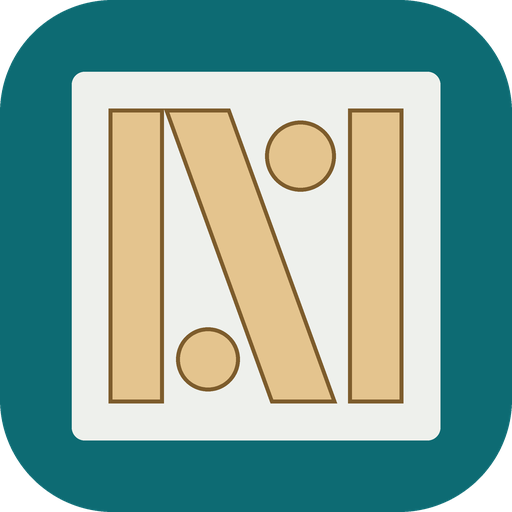
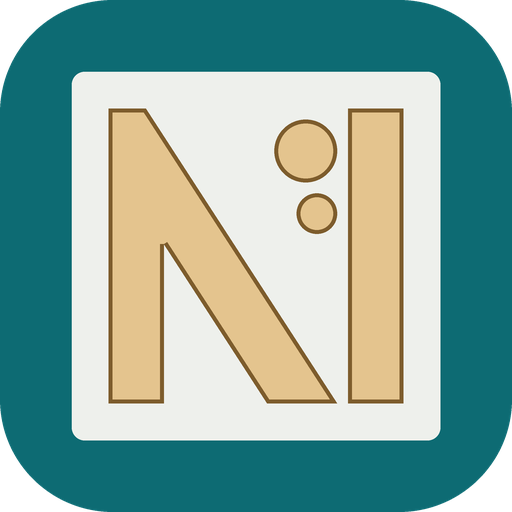
Icône : montant gauche et diagonale d'une seule forme — version 1.0.3
Claude-Session: https://claude.ai/code/session_01AmLjCgWrav5f2Pdvvzoxwj

Changed region(s): [[0.2812, 0.1875, 0.6562, 0.7812]]

diff --git a/app.js b/app.js
@@ -1,7 +1,7 @@
 /* Nestor — Copyright (C) 2026 Macr0b — AGPL-3.0-or-later (voir LICENSE). */
 /* Nestor — application installable.
    À chaque nouvelle version, changer APP_VERSION ici ET VERSION dans sw.js. */
-var APP_VERSION = "1.0.2";
+var APP_VERSION = "1.0.3";
 
 (function(){
   "use strict";

diff --git a/sw.js b/sw.js
@@ -1,6 +1,6 @@
 /* Service worker : fonctionnement hors ligne et mises à jour.
    À chaque nouvelle version, changer VERSION ci-dessous ET dans app.js. */
-const VERSION = "1.0.2";
+const VERSION = "1.0.3";
 const CACHE = "nestor-" + VERSION;
 const FILES = [
   "./",

diff --git a/LISEZMOI.md b/LISEZMOI.md
@@ -3,7 +3,7 @@
 Imbrication de pièces DXF, SVG et AI sur des panneaux, avec export SVG et DXF.
 Fonctionne hors connexion, en 45 langues, sur Mac, Windows, Linux, iPhone, iPad et Android.
 
-Version : 1.0.2
+Version : 1.0.3
 
 ## 1. Mettre l'application en ligne (une seule fois)
 
